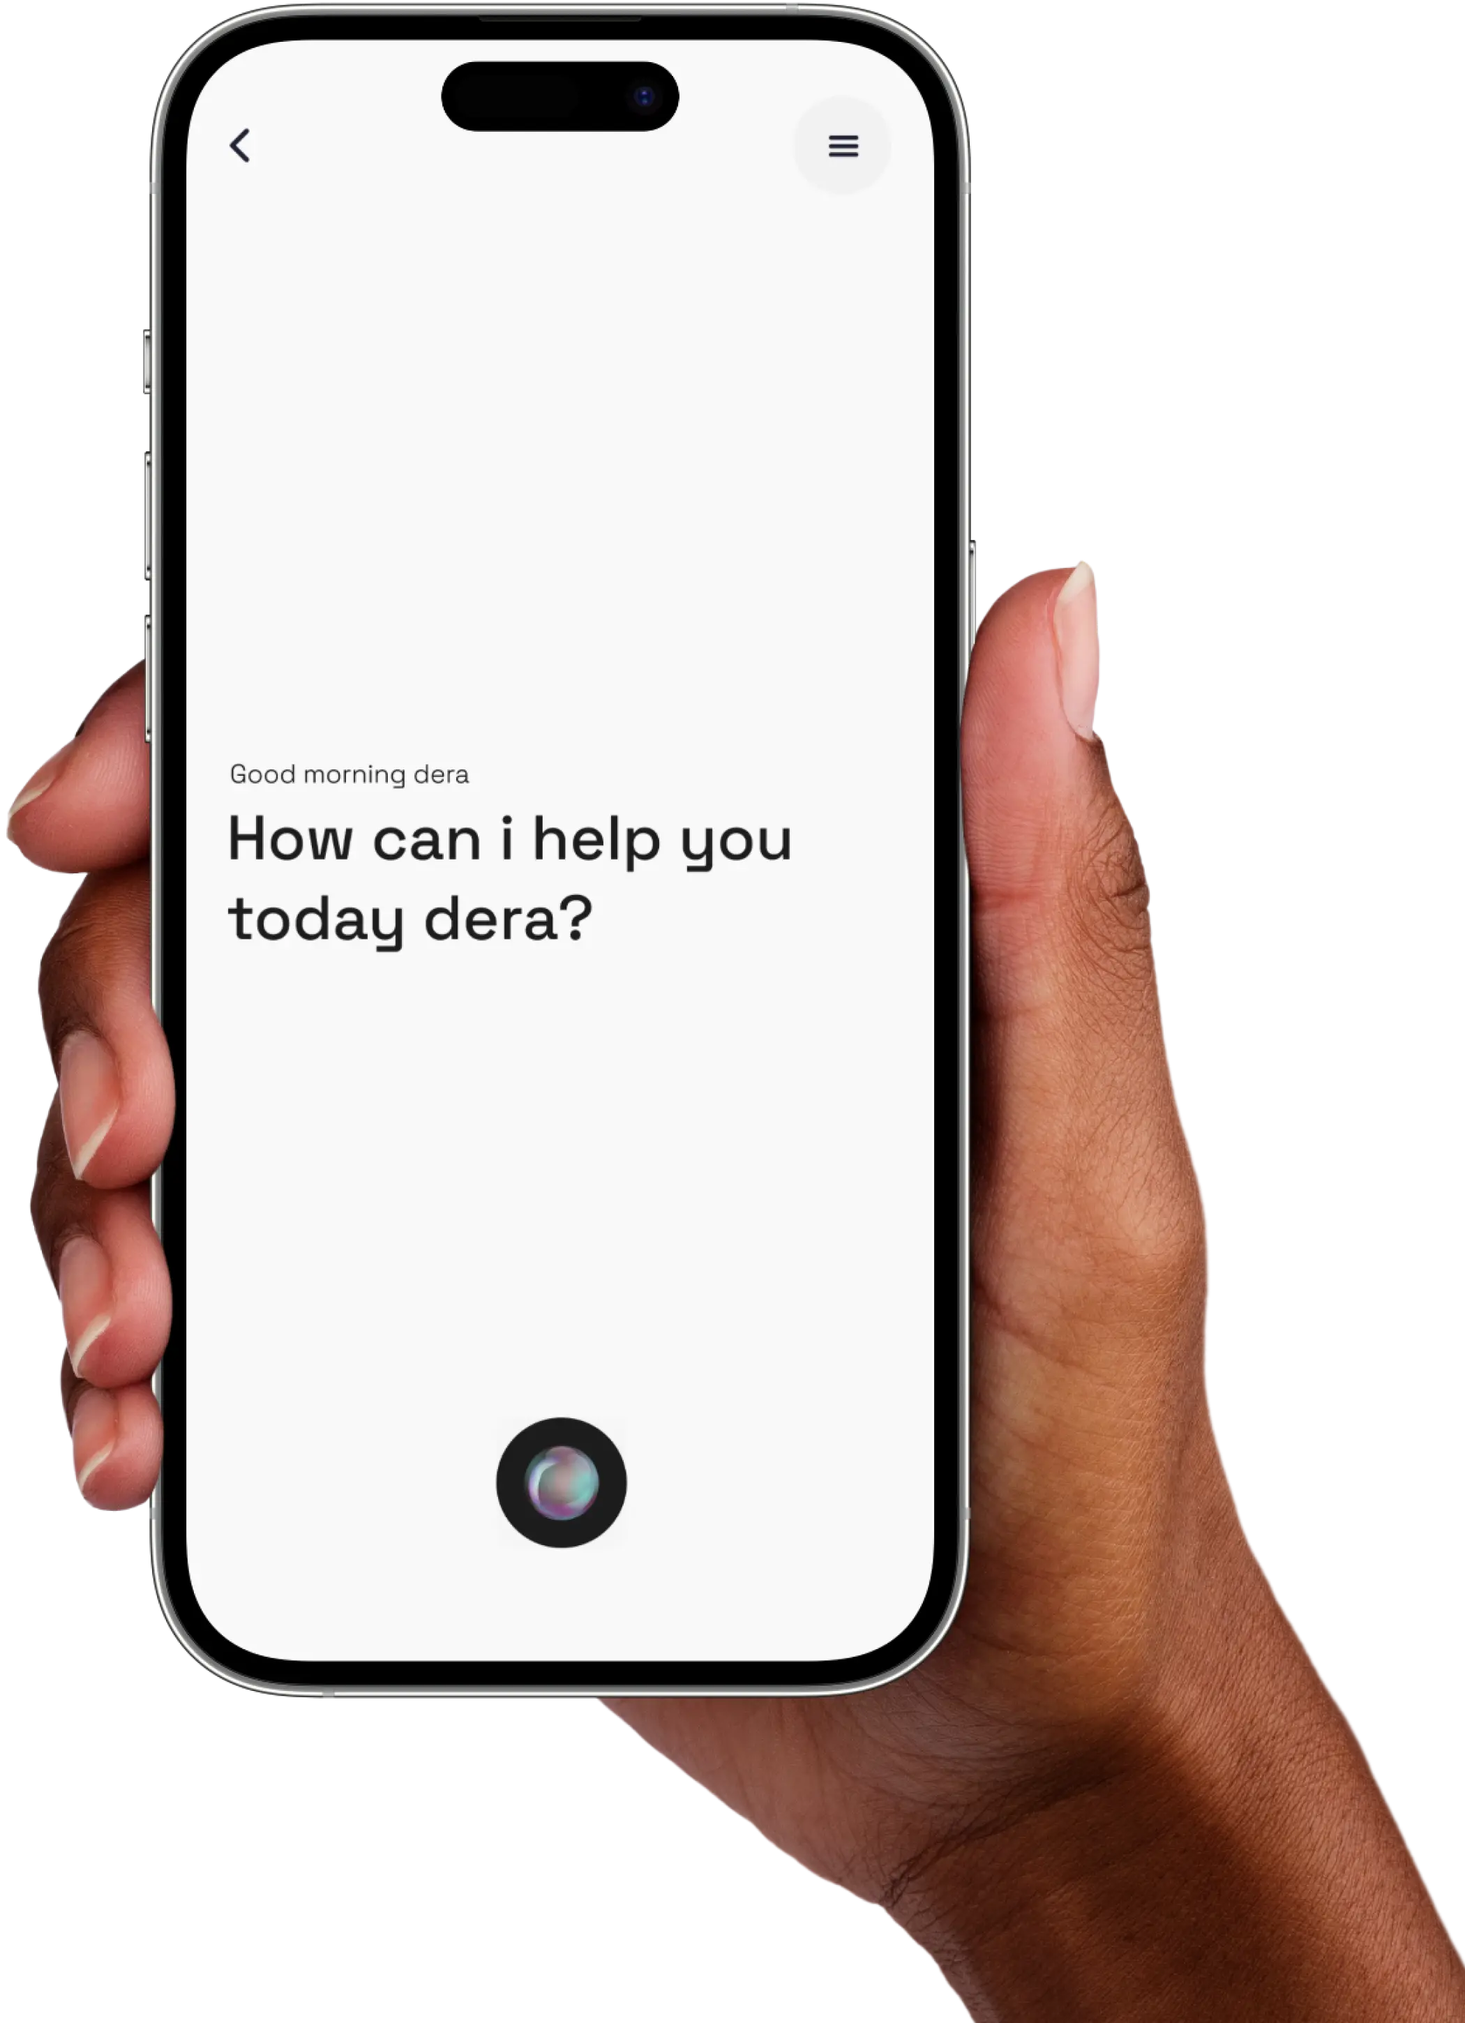
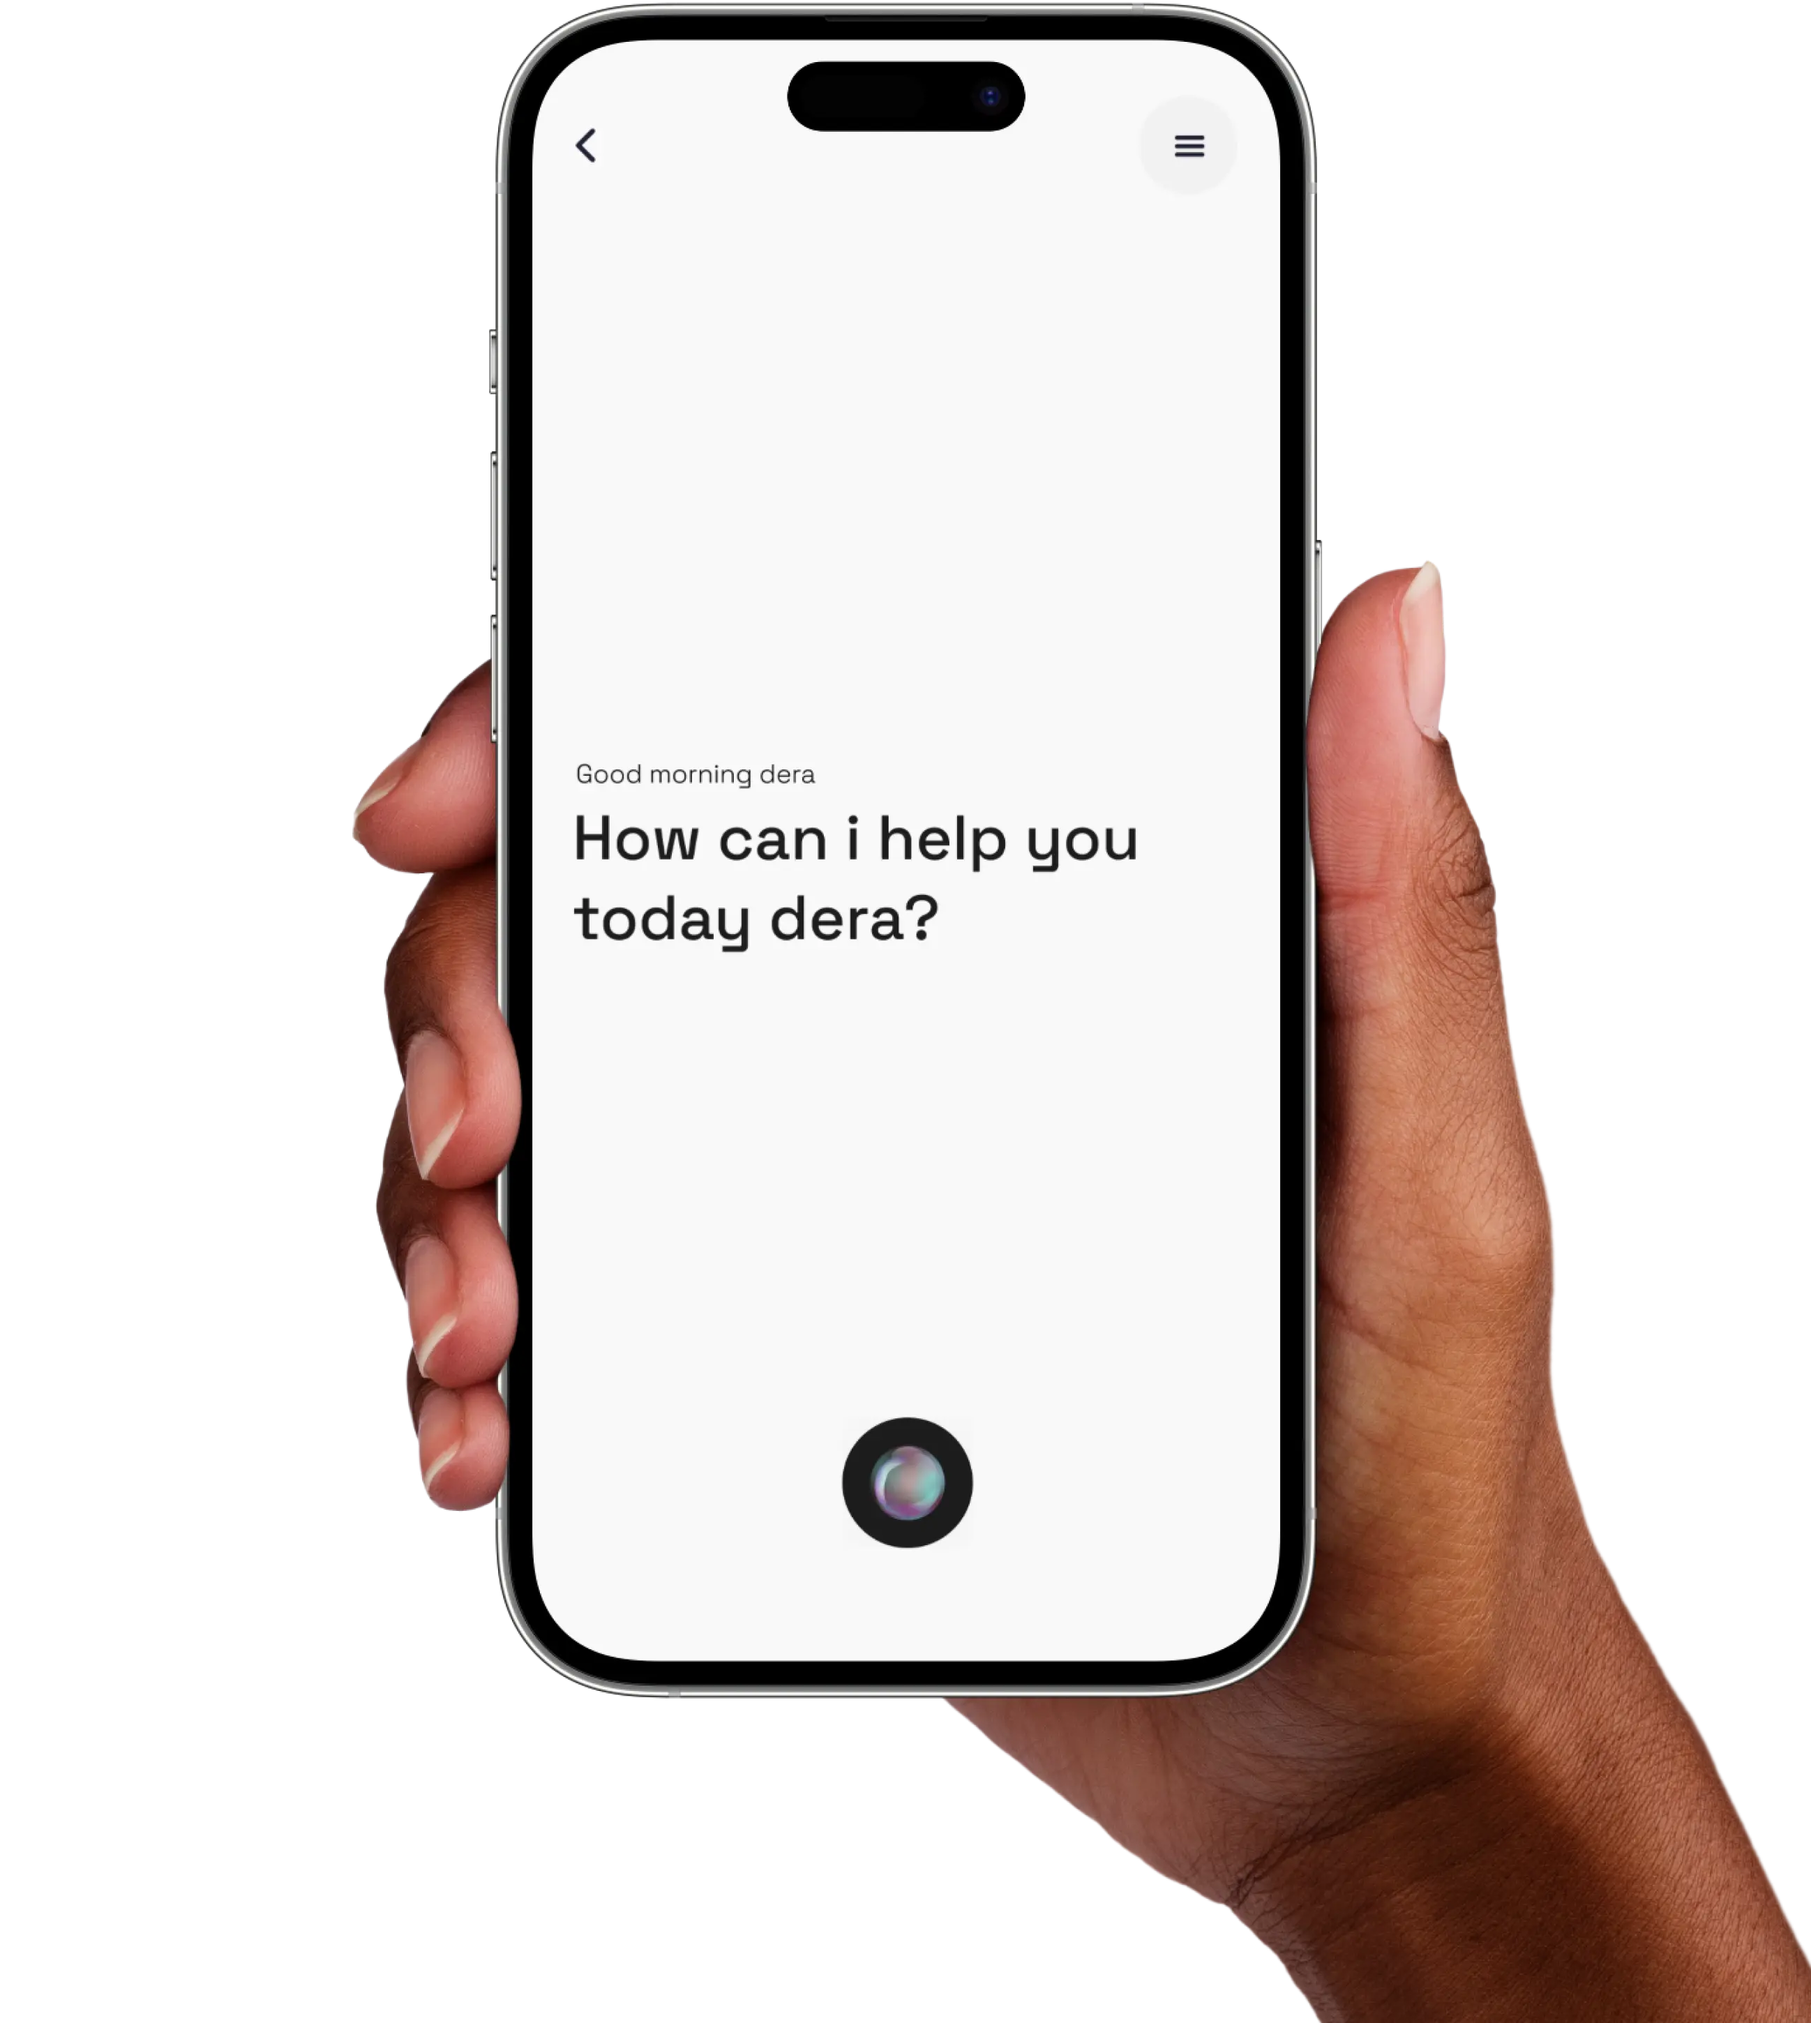
send

diff --git a/src/app/component/home/hand.tsx b/src/app/component/home/hand.tsx
@@ -85,10 +85,10 @@ const Hands = (props: any) => {
         <Image
           src={hand_middle}
           alt="work image"
-          className=" w-[600px]  h-[100vh] transition delay-[2s]"
+          className=" w-[45vw]  h-[100vh] transition delay-[2s]"
           style={{
             position: "sticky",
-            left: "55%",
+            left: "50%",
             transform: " translateX(-50%)",
             top: "0px",
           }}
